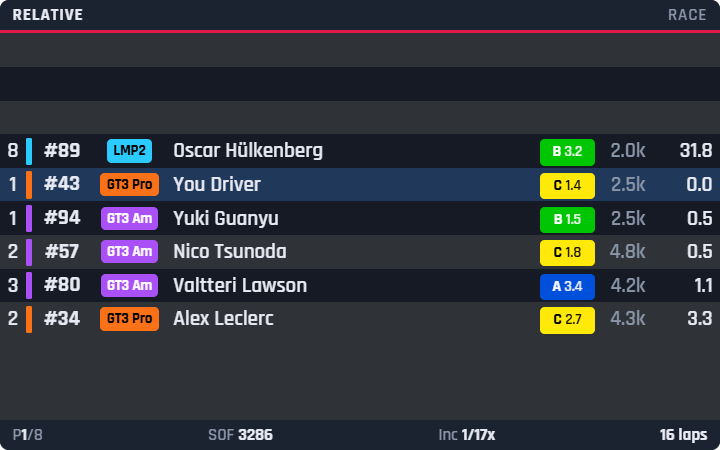
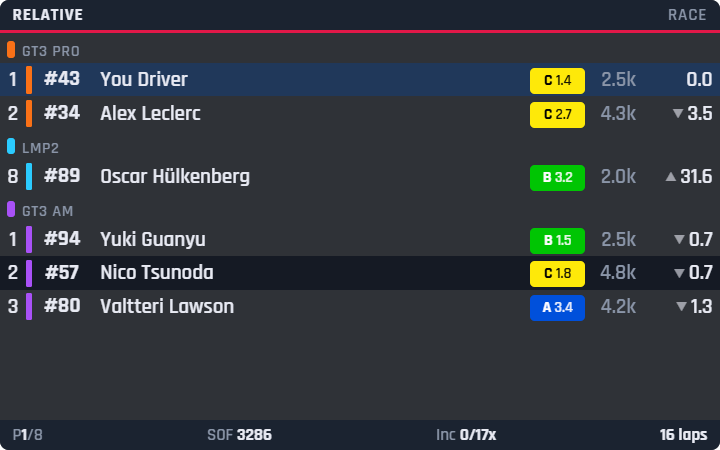
Relative: group cars by class in multiclass sessions
Each class gets its own block with a header (my class first). Inside a
block the cars keep their track order, and gaps get a small ahead/behind
arrow because blocks no longer run top-to-bottom in track order. The
class tag column is left out while grouped (the header names the class).
Single-class sessions render exactly as before. New option "Group cars by
class", on by default.

Claude-Session: https://claude.ai/code/session_01DGNazZwthjQmDrJZJifFFT

diff --git a/src/renderer/widgets/relative.js b/src/renderer/widgets/relative.js
@@ -5,6 +5,7 @@ Host.register('relative', function (root) {
   let last = '';
   let lastFooter = '';
   let multiClass = false;
+  let grouped = false; // class blocks: rows no longer run top-to-bottom in track order, so gaps get an ahead/behind arrow
 
   function row(c, r, s, cols, isRace) {
     const E = Fmt.esc;
@@ -24,7 +25,7 @@ Host.register('relative', function (root) {
         case 'irating': return `<td class="c-irating">${Fmt.irating(c.irating)}</td>`;
         case 'pit': return `<td class="c-pit">${c.onPitRoad ? '<span class="tag pit">PIT</span>' : ''}</td>`;
         case 'last': return `<td class="c-last">${c.lastLap > 0 ? Fmt.lapTime(c.lastLap) : ''}</td>`;
-        case 'gap': return `<td class="c-gap ${nameCls}">${r ? Math.abs(r.gap).toFixed(s.gapDecimals) : ''}</td>`;
+        case 'gap': return `<td class="c-gap ${nameCls}">${r ? (grouped && r.gap ? `<span class="dir">${r.gap > 0 ? '▲' : '▼'}</span>` : '') + Math.abs(r.gap).toFixed(s.gapDecimals) : ''}</td>`;
         default: return '<td></td>';
       }
     });
@@ -34,7 +35,7 @@ Host.register('relative', function (root) {
   return {
     update(state, ctx) {
       const s = ctx.settings;
-      const cols = s.columns.filter((c) => c.on).map((c) => c.id);
+      let cols = s.columns.filter((c) => c.on).map((c) => c.id);
       const cars = new Map((state.cars || []).map((c) => [c.idx, c]));
       const me = (state.cars || []).find((c) => c.isPlayer);
       const isRace = state.session && state.session.isRace;
@@ -44,11 +45,27 @@ Host.register('relative', function (root) {
       const ahead = rel.filter((r) => r.gap >= 0).slice(-s.ahead);
       const behind = rel.filter((r) => r.gap < 0).slice(0, s.behind);
       let html = '<table class="board">';
-      for (let i = 0; i < s.ahead - ahead.length; i++) html += row(null, null, s, cols);
-      for (const r of ahead) html += row(cars.get(r.idx), r, s, cols, isRace);
-      if (me) html += row(me, { gap: 0, lapDiff: 0 }, s, cols, isRace);
-      for (const r of behind) html += row(cars.get(r.idx), r, s, cols, isRace);
-      for (let i = 0; i < s.behind - behind.length; i++) html += row(null, null, s, cols);
+      grouped = !!(me && s.groupByClass && multiClass);
+      if (grouped) {
+        // same cars, but each class in its own block (my class first), still in track order inside a block
+        cols = cols.filter((c) => c !== 'class'); // the block header names the class
+        const list = ahead.concat([{ idx: me.idx, gap: 0, lapDiff: 0 }], behind);
+        const order = [me.classId, ...(state.classes || []).map((k) => k.id)];
+        for (const r of list) order.push(cars.get(r.idx).classId);
+        for (const id of new Set(order)) {
+          const rows = list.filter((r) => cars.get(r.idx).classId === id);
+          if (!rows.length) continue;
+          const c0 = cars.get(rows[0].idx);
+          html += `<tr class="class-head"><td colspan="${cols.length}"><span class="bar" style="background:${c0.classColor}"></span>${Fmt.esc(c0.className)}</td></tr>`;
+          for (const r of rows) html += row(cars.get(r.idx), r, s, cols, isRace);
+        }
+      } else {
+        for (let i = 0; i < s.ahead - ahead.length; i++) html += row(null, null, s, cols);
+        for (const r of ahead) html += row(cars.get(r.idx), r, s, cols, isRace);
+        if (me) html += row(me, { gap: 0, lapDiff: 0 }, s, cols, isRace);
+        for (const r of behind) html += row(cars.get(r.idx), r, s, cols, isRace);
+        for (let i = 0; i < s.behind - behind.length; i++) html += row(null, null, s, cols);
+      }
       html += '</table>';
       if (!me) html = '<div class="center-msg">Not on track</div>';
       if (html !== last) { rowsEl.innerHTML = html; last = html; }

diff --git a/src/shared/registry.js b/src/shared/registry.js
@@ -81,9 +81,10 @@
       id: 'relative', name: 'Relative', icon: '↕',
       description: 'Cars around you on track with live time gaps, lapping/lapped coloring.',
       bounds: { x: 1260, y: 620, width: 480, height: 300 },
-      needs: ['session', 'player', 'cars', 'relative'],
+      needs: ['session', 'player', 'cars', 'relative', 'classes'],
       schema: [
         { key: 'columns', label: 'Columns', type: 'columns', columns: RELATIVE_COLUMNS },
+        { key: 'groupByClass', label: 'Group cars by class (multiclass only; my class first)', type: 'bool', default: true },
         { key: 'ahead', label: 'Cars ahead', type: 'number', min: 0, max: 10, default: 4 },
         { key: 'behind', label: 'Cars behind', type: 'number', min: 0, max: 10, default: 4 },
         { key: 'colorLapping', label: 'Color lapping / lapped cars', type: 'bool', default: true },

diff --git a/src/renderer/overlay.css b/src/renderer/overlay.css
@@ -81,6 +81,7 @@ td.c-gap, td.c-interval, td.c-last, td.c-best, td.c-irating, td.c-irDelta, td.c-
 td.c-irating, td.c-lap, td.c-pit { color: var(--dim); }
 td.c-posGain, td.c-tire, td.c-class { text-align: center; font-size: .8rem; }
 td.c-number { padding-left: 0 !important; }
+td.c-gap .dir { font-size: .6rem; opacity: .6; margin-right: .2rem; vertical-align: 1px; }
 .classbar { display: inline-block; width: .3rem; height: 1.3rem; vertical-align: middle; margin-right: .3rem; border-radius: 1px; }
 .footer { display: flex; justify-content: space-between; gap: .8rem; padding: .2rem .6rem; font-size: .8rem; color: var(--dim); background: var(--header); font-weight: 600; }
 .footer b { color: var(--text); }
